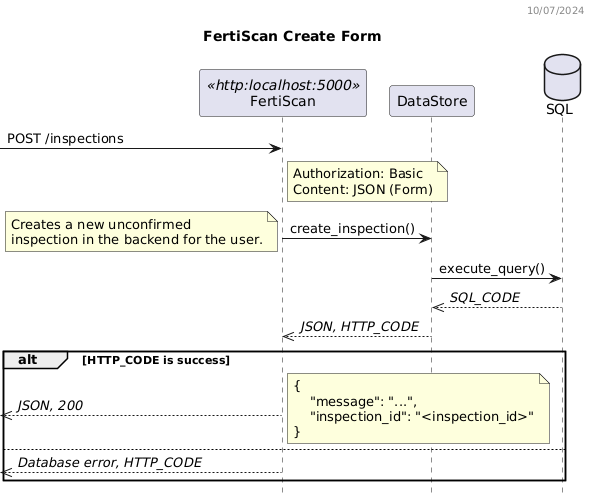
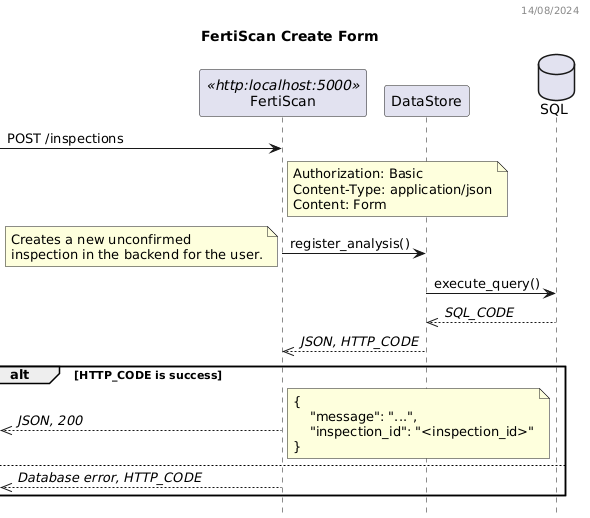
fix: update the dev documentation and docker file

diff --git a/app.py b/app.py
@@ -9,7 +9,7 @@ from azure.core.exceptions import HttpResponseError
 from datastore import ContainerClient, get_user, new_user
 from datastore.db import connect_db
 from datastore.db.queries.user import is_a_user_id
-from datastore.fertiscan import register_analysis, update_inspection
+from datastore import fertiscan
 from flasgger import Swagger, swag_from
 from flask import Flask, jsonify, request
 from flask_cors import cross_origin
@@ -177,7 +177,7 @@ def create_inspection():  # pragma: no cover
 
                 logger.info(f"Registering analysis for user_id: {user_id}")
                 inspection = asyncio.run(
-                    register_analysis(
+                    fertiscan.register_analysis(
                         cursor=cursor,
                         container_client=container_client,
                         user_id=user_id,
@@ -202,7 +202,7 @@ def create_inspection():  # pragma: no cover
 @auth.login_required
 @cross_origin(origins=FRONTEND_URL)
 @swag_from("docs/swagger/update_inspection.yaml")
-def submit_inspection(inspection_id):  # pragma: no cover
+def update_inspection(inspection_id):  # pragma: no cover
     try:
         with connect_db(FERTISCAN_DB_URL, FERTISCAN_SCHEMA) as conn:
             with conn.cursor() as cursor:
@@ -219,7 +219,7 @@ def submit_inspection(inspection_id):  # pragma: no cover
                     ), HTTPStatus.BAD_REQUEST
 
                 inspection = asyncio.run(
-                    update_inspection(
+                    fertiscan.update_inspection(
                         cursor,
                         inspection_id,
                         db_user.id,
@@ -237,7 +237,7 @@ def submit_inspection(inspection_id):  # pragma: no cover
 @app.route("/inspections/<form_id>", methods=["DELETE"])
 @auth.login_required
 @swag_from("docs/swagger/discard_inspection.yaml")
-def discard_inspection(form_id):   # pragma: no cover
+def discard_inspection(inspection_id):   # pragma: no cover
     return jsonify(error="Not yet implemented!"), HTTPStatus.SERVICE_UNAVAILABLE
 
 

diff --git a/docs/README.md b/docs/README.md
@@ -63,7 +63,7 @@ Create a new inspection and add it to the database.
 
 Send the latest state of a inspection to the database.
 
-![submit](../out/submit_inspection_dss/FertiScan%20Sequence%20Diagram.png)
+![update](../out/update_inspection_dss/FertiScan%20Sequence%20Diagram.png)
 
 ### `DELETE /inspections`
 
@@ -75,6 +75,6 @@ Remove all transient states of a inspection.
 
 Retrieve a list of inspections matching the search query.
 
-![get](../out/get_inspection_dss/FertiScan%20Sequence%20Diagram.png)
+![search](../out/search_inspections_dss/FertiScan%20Sequence%20Diagram.png)
 
 v1.0.0

diff --git a/README.md b/README.md
@@ -75,6 +75,9 @@ AZURE_OPENAI_API_ENDPOINT=your_azure_openai_endpoint
 AZURE_OPENAI_API_KEY=your_azure_openai_key
 AZURE_OPENAI_DEPLOYMENT=your_azure_openai_deployment
 
+FERTISCAN_DB_URL=your_fertiscan_db_url
+FERTISCAN_SCHEMA=your_fertiscan_schema
+
 PROMPT_PATH=path/to/file
 UPLOAD_PATH=path/to/file
 FRONTEND_URL=http://url.to_frontend/
